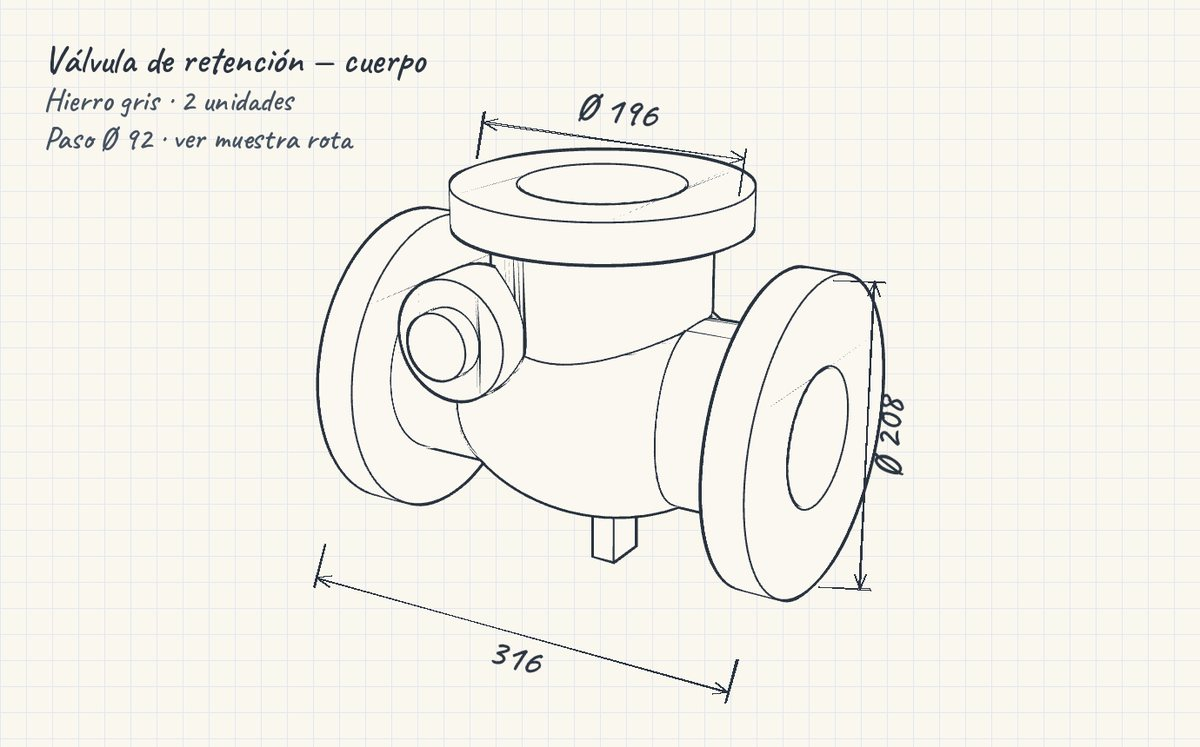
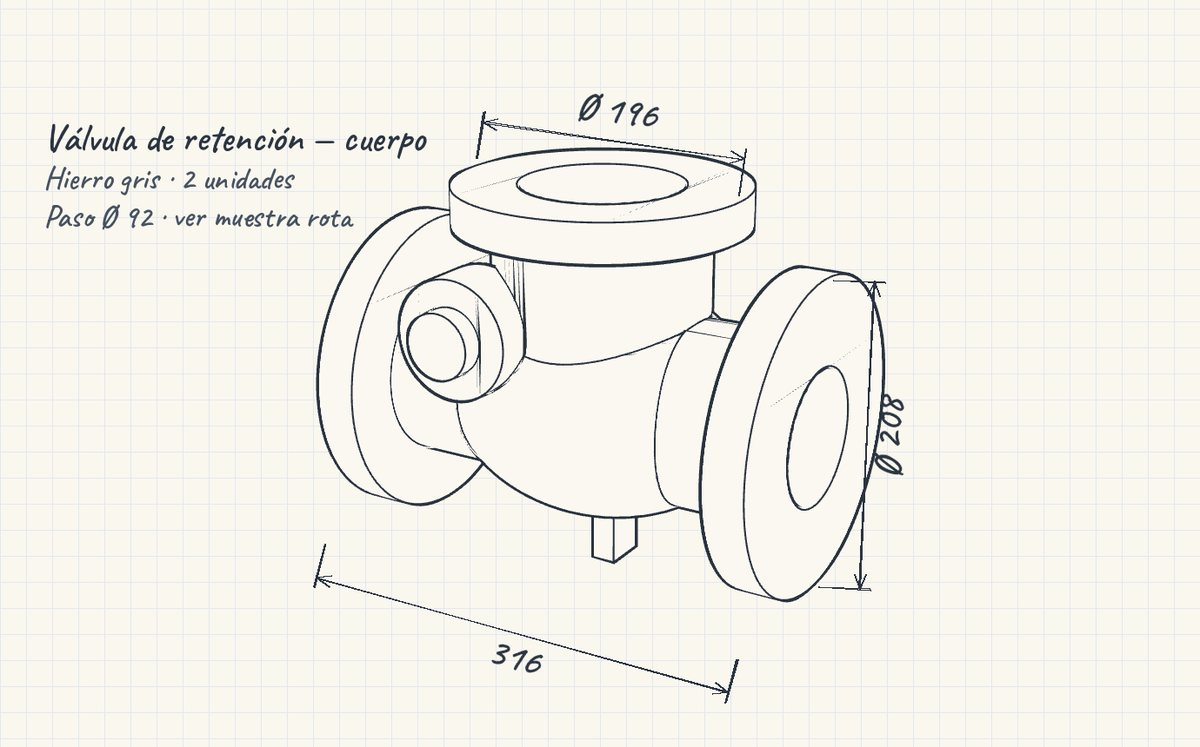
Portada con dos visuales interactivos: válvula 3D y croquis → pieza

Changed region(s): [[0.0308, 0.0616, 0.37, 0.3079]]

diff --git a/index.html b/index.html
@@ -53,7 +53,12 @@ nav .btn{padding:11px 15px;opacity:1}
 
 /* Portada */
 .hero{background:linear-gradient(180deg,var(--steel),#fff)}
-.hero .c{display:grid;grid-template-columns:minmax(0,1fr) minmax(0,1.05fr);gap:clamp(24px,4vw,48px);align-items:center;padding-block:clamp(28px,4vw,52px)}
+.hero .c{display:grid;grid-template-columns:minmax(0,1fr) minmax(0,1.05fr);grid-template-areas:"txt mv" "txt ab";gap:14px clamp(24px,4vw,48px);align-items:center;padding-block:clamp(22px,3vw,40px)}
+.htxt{grid-area:txt}
+.hmv{grid-area:mv}
+.hab{grid-area:ab}
+.hero .ab{width:100%}
+@media (min-width:861px){.hero model-viewer,.hero .ab{max-height:calc((100svh - 150px)/2);min-height:250px}}
 .hero h1{font:800 clamp(30px,4vw,48px)/1.06 var(--f-head);letter-spacing:-.02em;margin-top:8px;text-wrap:balance}
 .hero .lead{font-size:18px}
 .hero .lead b{color:var(--ink)}
@@ -142,12 +147,12 @@ dialog .x{position:fixed;top:12px;right:14px;background:#fff;color:var(--navy);b
 .dp-range div{display:flex;justify-content:space-between;font:600 12px/1 var(--f-head);letter-spacing:.06em;text-transform:uppercase;color:var(--ink-2)}
 
 /* Antes y después */
-.ab{position:relative;margin-top:22px;max-width:1000px;aspect-ratio:1200/747;overflow:hidden;box-shadow:0 18px 40px -26px rgba(18,48,79,.45);--x:50%;user-select:none;touch-action:pan-y}
-.ab img{position:absolute;inset:0;width:100%;height:100%;object-fit:cover}
+.ab{position:relative;aspect-ratio:16/10;overflow:hidden;--x:50%;user-select:none;touch-action:pan-y}
+.ab img{position:absolute;inset:0;width:100%;height:100%;object-fit:cover;object-position:50% 40%}
 .ab .bf{position:absolute;inset:0;clip-path:inset(0 calc(100% - var(--x)) 0 0)}
 .ab .ln{position:absolute;top:0;bottom:0;left:var(--x);width:3px;margin-left:-1.5px;background:#fff;box-shadow:0 0 0 1px rgba(11,33,57,.25);pointer-events:none}
 .ab .kn{position:absolute;top:50%;left:var(--x);width:46px;height:46px;margin:-23px 0 0 -23px;border-radius:50%;background:var(--bronze);color:#fff;display:grid;place-items:center;font:700 18px/1 var(--f-head);box-shadow:0 4px 14px -4px rgba(11,33,57,.6);pointer-events:none;letter-spacing:2px}
-.ab .tg{position:absolute;bottom:12px;font:600 13px/1 var(--f-head);background:rgba(11,33,57,.82);color:#fff;padding:8px 10px;pointer-events:none}
+.ab .tg{position:absolute;top:10px;font:600 13px/1 var(--f-head);background:rgba(11,33,57,.82);color:#fff;padding:8px 10px;pointer-events:none}
 .ab .tg.l{left:12px} .ab .tg.r{right:12px}
 .ab input{position:absolute;inset:0;width:100%;height:100%;opacity:0;cursor:ew-resize;margin:0}
 
@@ -188,7 +193,7 @@ footer img{height:34px;width:auto}
   body{font-size:16px}
   nav a:not(.btn){display:none}
   .hero .c,.contact .c{grid-template-columns:minmax(0,1fr)}
-  .hero figure{order:-1}
+  .hero .c{grid-template-areas:"mv" "ab" "txt"}
   .hero .lead{font-size:16.5px}
   .facts{grid-template-columns:repeat(2,minmax(0,1fr))}
   .services,.gallery{grid-template-columns:repeat(2,minmax(0,1fr))}
@@ -204,7 +209,7 @@ footer img{height:34px;width:auto}
   .dp-tabs button{flex-direction:column;gap:6px;padding:10px 4px;font-size:13px;text-align:center;justify-content:flex-start}
   .dp-desc{min-height:0}
   .dp-tag{font-size:11.5px;padding:6px 7px 6px 18px}
-  .ab .tg{font-size:11.5px;padding:6px 8px;bottom:8px}
+  .ab .tg{display:none}
   .ab .tg.l{left:8px} .ab .tg.r{right:8px}
   .ab .kn{width:40px;height:40px;margin:-20px 0 0 -20px}
   .swipe{display:block!important}
@@ -212,6 +217,8 @@ footer img{height:34px;width:auto}
 @media (max-width:520px){
   .logo img{height:40px}
   nav .lg{display:none} nav .sm{display:inline}
+  .hero .lg{display:none} .hero .sm{display:inline}
+  .hero figcaption{font-size:12.5px;padding:6px 10px}
   nav .btn{padding:10px 12px;font-size:14px}
   .gallery figcaption span{display:none}
   .gallery figcaption{padding:8px 10px}
@@ -242,7 +249,7 @@ footer img{height:34px;width:auto}
 <main id="inicio">
   <div class="hero">
     <div class="c">
-      <div>
+      <div class="htxt">
         <p class="eyebrow">San Francisco, Córdoba · más de 40 años</p>
         <h1>Modelos y herramentales para fundición</h1>
         <p class="lead">Hacemos modelos, placas y cajas de noyo en <b>madera, aluminio, resina epoxi, telgopor e impresión 3D</b>, desde cero o a partir de una pieza existente. No hace falta que tenga plano: dibujamos la pieza desde un croquis o la muestra. Le entregamos <b>herramentales listos para la producción</b>: trabajos de alta precisión y complejidad.</p>
@@ -257,9 +264,18 @@ footer img{height:34px;width:auto}
           <div><b>CAD 3D</b><span>SolidWorks e Inventor</span></div>
         </div>
       </div>
-      <figure>
+      <figure class="hmv">
         <model-viewer id="mv" src="img/r/valvula.glb" poster="img/r/portada.jpg" alt="Modelo 3D de válvula de retención en madera laqueada, con portadas en negro" camera-controls auto-rotate auto-rotate-delay="2500" rotation-per-second="18deg" camera-orbit="-30deg 68deg auto" field-of-view="28deg" shadow-intensity="1.2" exposure="1.0" environment-image="neutral" tone-mapping="neutral" interaction-prompt="none" touch-action="pan-y"></model-viewer>
-        <figcaption>Modelo de válvula de retención · <b>gírelo con el mouse o el dedo</b></figcaption>
+        <figcaption><span class="lg">Modelo de válvula de retención · <b>gírelo con el mouse o el dedo</b></span><span class="sm">Válvula en 3D · <b>gírela con el dedo</b></span></figcaption>
+      </figure>
+      <figure class="hab">
+        <div class="ab" id="ab">
+          <img src="img/r/despues.jpg" alt="Cuerpo de válvula ya fundido en hierro" width="1200" height="747">
+          <div class="bf"><img src="img/r/antes.jpg" alt="Croquis a mano del cuerpo de válvula con sus medidas principales" width="1200" height="747"></div>
+                    <span class="ln"></span><span class="kn" aria-hidden="true">‹›</span>
+          <input type="range" min="0" max="100" value="50" aria-label="Comparar croquis y pieza fundida">
+        </div>
+        <figcaption><span class="lg">Ejemplo: del croquis a la pieza fundida · <b>deslice para comparar</b></span><span class="sm">Ejemplo: croquis → pieza · <b>deslice</b></span></figcaption>
       </figure>
     </div>
   </div>
@@ -360,22 +376,6 @@ footer img{height:34px;width:auto}
     </div>
   </section>
 
-  <section id="antes">
-    <div class="c">
-      <p class="eyebrow">Antes y después</p>
-      <h2>Del croquis a la pieza fundida</h2>
-      <p class="lead">Muchos clientes llegan con un croquis a mano o una pieza rota. Deslice para ver en qué se convierte.</p>
-      <div class="ab" id="ab">
-        <img src="img/r/despues.jpg" alt="Cuerpo de válvula ya fundido en hierro" loading="lazy" width="1200" height="747">
-        <div class="bf"><img src="img/r/antes.jpg" alt="Croquis a mano del cuerpo de válvula con sus medidas principales" loading="lazy" width="1200" height="747"></div>
-        <span class="tg l">Croquis (ejemplo)</span><span class="tg r">Pieza fundida</span>
-        <span class="ln"></span><span class="kn" aria-hidden="true">‹›</span>
-        <input type="range" min="0" max="100" value="50" aria-label="Comparar croquis y pieza fundida">
-      </div>
-      <p class="note">Ejemplo ilustrativo: croquis y pieza recreados para mostrar el proceso, no corresponden a un trabajo de un cliente.</p>
-    </div>
-  </section>
-
   <section id="contacto" class="contact">
     <div class="c">
       <div>
@@ -452,8 +452,8 @@ io.observe(dp);
   if('IntersectionObserver' in window && !matchMedia('(prefers-reduced-motion: reduce)').matches){
     var abo=new IntersectionObserver(function(e){
       if(!e.some(function(x){return x.isIntersecting})) return; abo.disconnect();
-      var t0=performance.now();
-      (function step(t){var k=Math.min(1,(t-t0)/1600), v=50-22*Math.sin(k*Math.PI); abSet(v); abi.value=v; if(k<1) requestAnimationFrame(step);})(t0);
+      setTimeout(function(){var t0=performance.now();
+      (function step(t){var k=Math.min(1,(t-t0)/1600), v=50-22*Math.sin(k*Math.PI); abSet(v); abi.value=v; if(k<1) requestAnimationFrame(step);})(t0);},1800);
     },{threshold:0.6});
     abo.observe(ab);
   }
